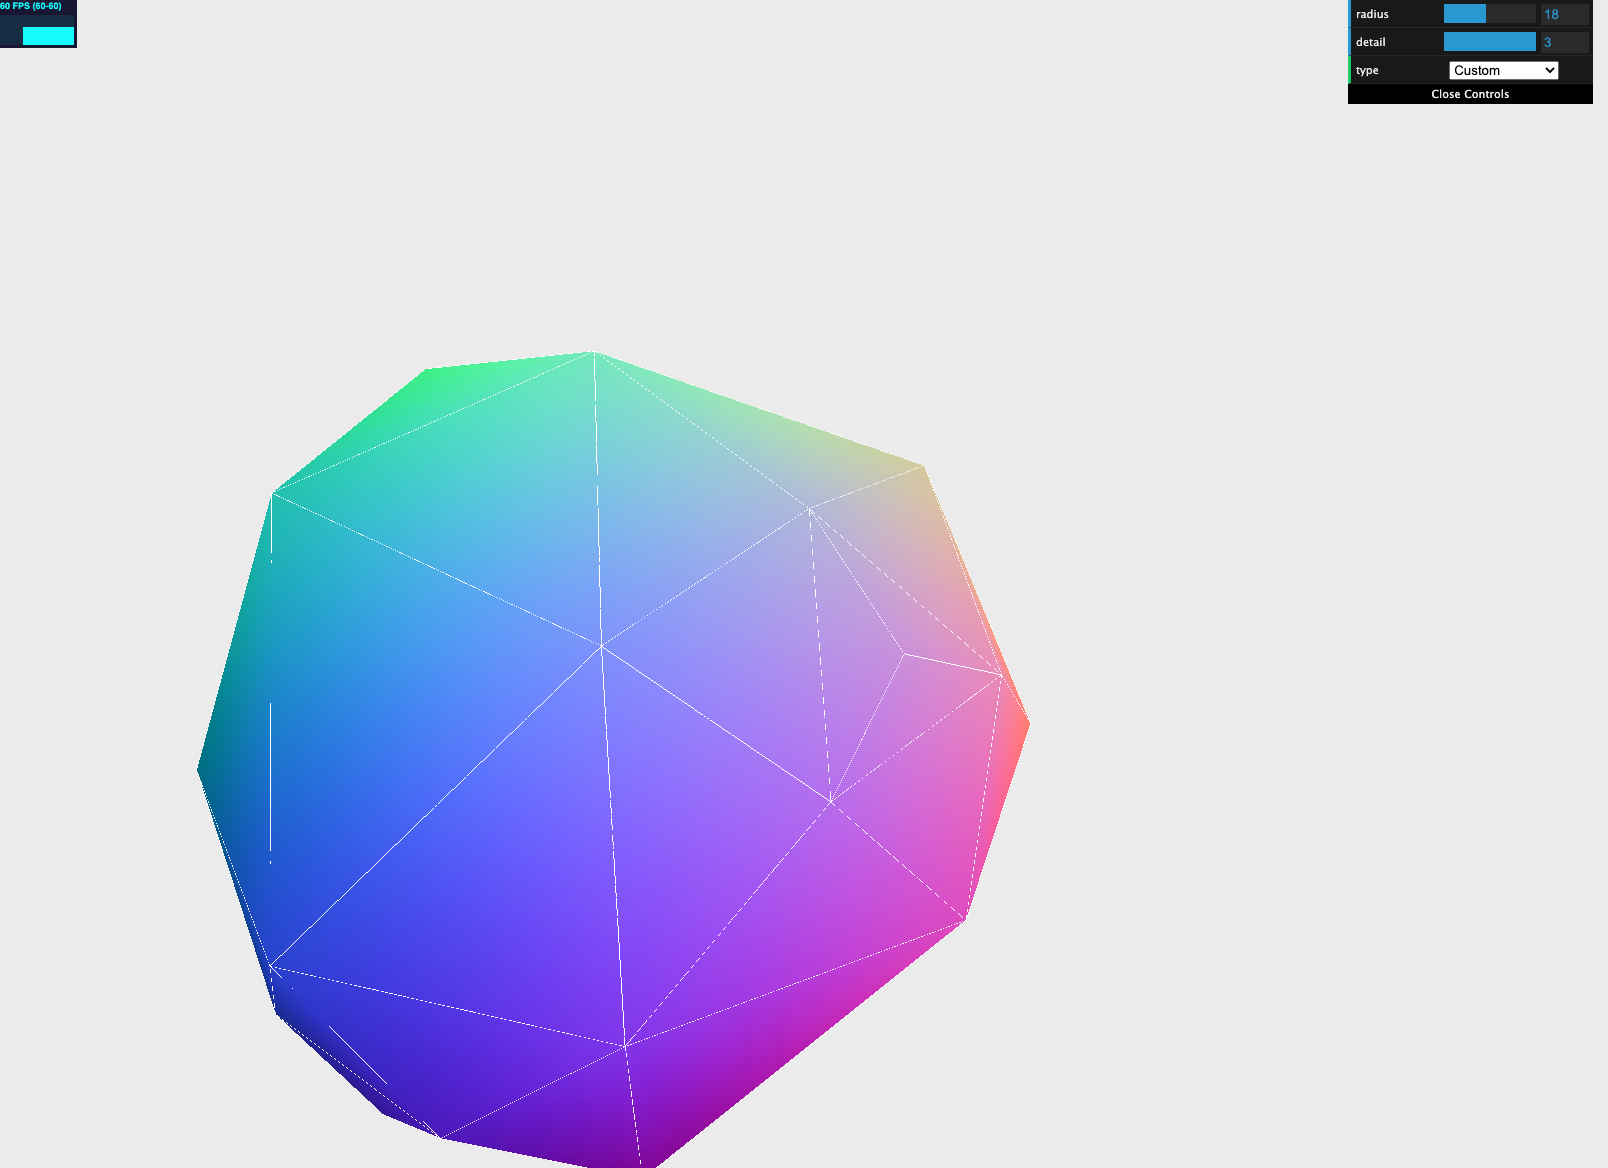
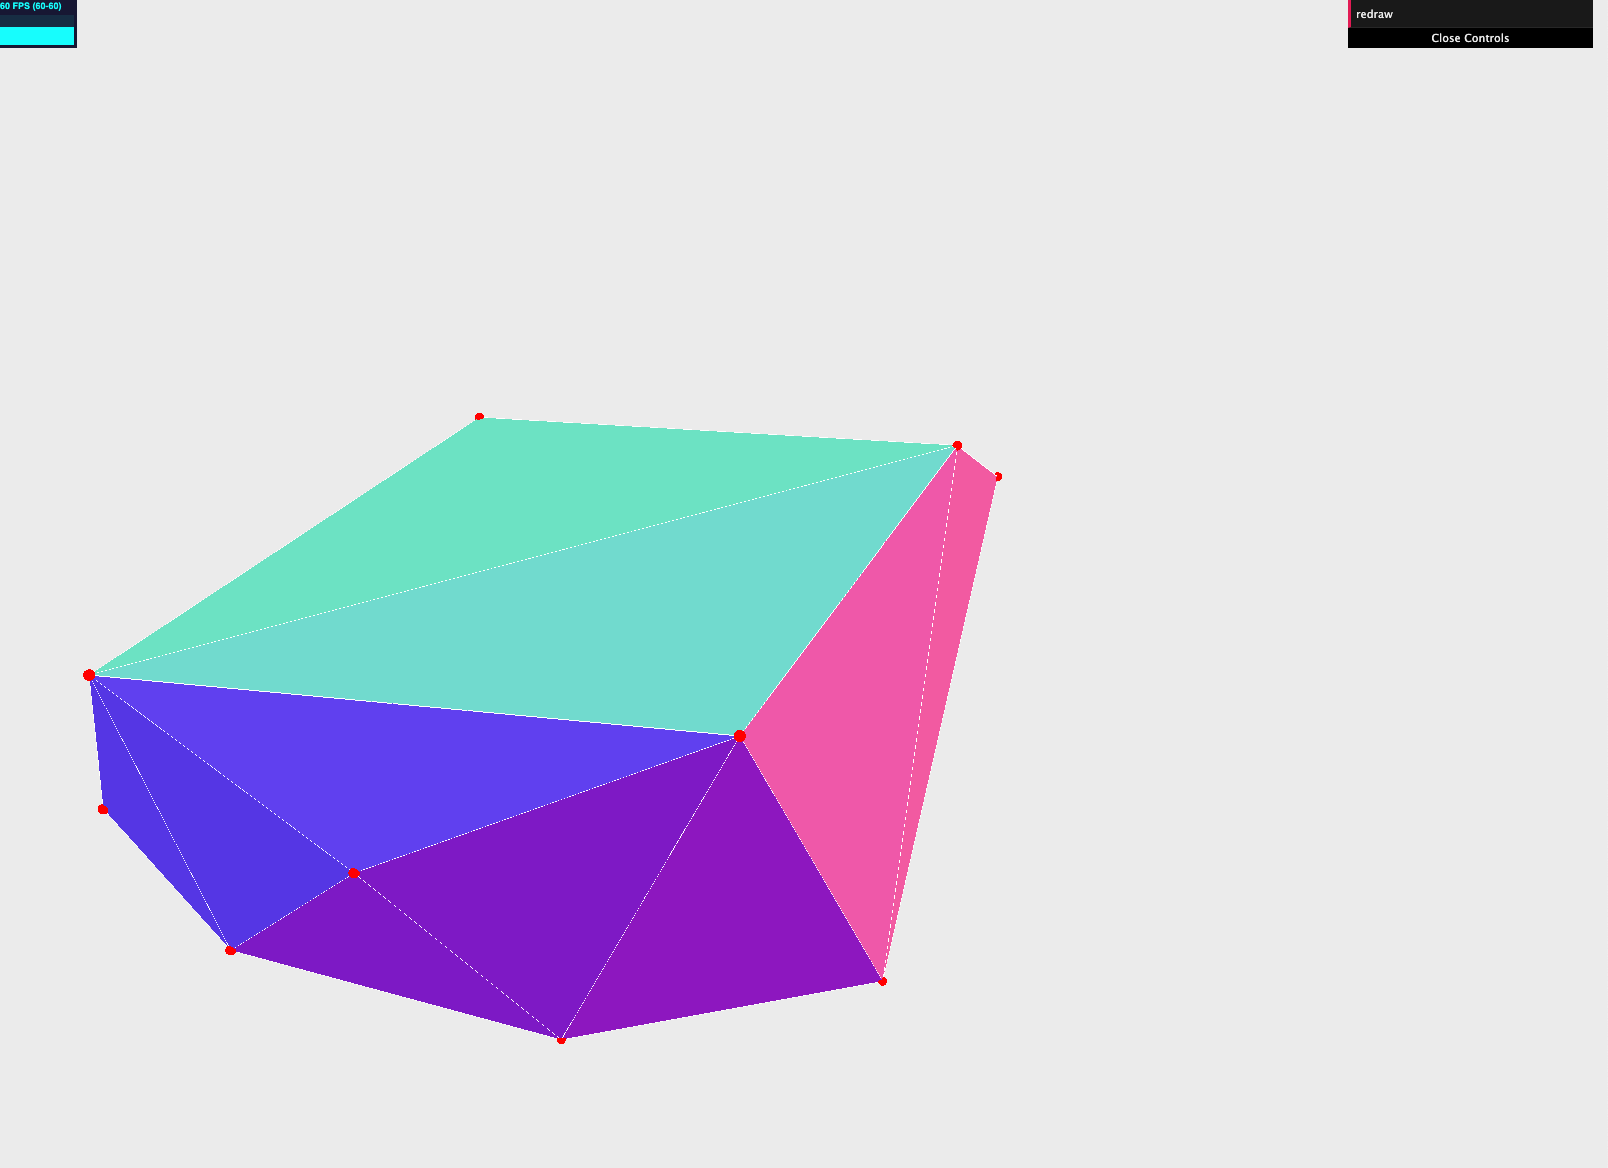
6-1 completed

Changed region(s): [[0.0311, 0.2774, 0.653, 1.0], [0.8396, 0.0, 0.995, 0.0925], [0.0, 0.0, 0.0311, 0.0616]]

diff --git a/Learning Three.js, 2nd Edition/chapter-06/6-1.advanced-3d-geometries-convex/src/index.js b/Learning Three.js, 2nd Edition/chapter-06/6-1.advanced-3d-geometries-convex/src/index.js
@@ -2,7 +2,7 @@ import * as THREE from "three";
 import Stats from "stats.js";
 import * as dat from "dat.gui";
 import { SceneUtils } from "three/examples/jsm/utils/SceneUtils";
-import { Shape, Sphere } from "three";
+import { ConvexGeometry } from "three/examples/jsm/geometries/ConvexGeometry";
 
 // 統計情報の追加
 const stats = initStats();
@@ -25,58 +25,51 @@ renderer.setSize(window.innerWidth, window.innerHeight);
 renderer.shadowMap.enabled = true;
 document.getElementById("WebGL-output").appendChild(renderer.domElement);
 
-// [Light]spot light
-const spotLight = new THREE.SpotLight(0xffffff);
-spotLight.position.set(-40, 60, -10);
-spotLight.castShadow = true;
-scene.add(spotLight);
-
-// [Mesh] polyhedron
-let polyhedron = createMesh(new THREE.IcosahedronGeometry(10, 0));
-scene.add(polyhedron);
+let spGroup;
+let hullMesh;
+generatePoints();
 
 // [Gui]Gui
 const controls = new (function () {
-  this.radius = 10;
-  this.detail = 0;
-  this.type = "Icosahedron";
-
   this.redraw = function () {
-    scene.remove(polyhedron);
-    switch (controls.type) {
-      case "Icosahedron":
-        polyhedron = createMesh(new THREE.IcosahedronGeometry(controls.radius, controls.detail));
-        break;
-      case "Tetrahedron":
-        polyhedron = createMesh(new THREE.TetrahedronGeometry(controls.radius, controls.detail));
-        break;
-      case "Octahedron":
-        polyhedron = createMesh(new THREE.OctahedronGeometry(controls.radius, controls.detail));
-        break;
-      case "Dodecahedron":
-        polyhedron = createMesh(new THREE.DodecahedronGeometry(controls.radius, controls.detail));
-        break;
-      case "Custom":
-        var vertices = [1, 1, 1, -1, -1, 1, -1, 1, -1, 1, -1, -1];
-
-        var indices = [2, 1, 0, 0, 3, 2, 1, 3, 0, 2, 3, 1];
-
-        polyhedron = createMesh(new THREE.PolyhedronGeometry(vertices, indices, controls.radius, controls.detail));
-        break;
-    }
-    scene.add(polyhedron);
+    scene.remove(spGroup);
+    scene.remove(hullMesh);
+    generatePoints();
   };
 })();
 
 const gui = new dat.GUI();
-gui.add(controls, "radius", 0, 40).step(1).onChange(controls.redraw);
-gui.add(controls, "detail", 0, 3).step(1).onChange(controls.redraw);
-gui.add(controls, "type", ["Icosahedron", "Tetrahedron", "Octahedron", "Dodecahedron", "Custom"]).onChange(controls.redraw);
+gui.add(controls, "redraw");
 
 let step = 0;
 
 // レンダリング
 renderScene();
+
+function generatePoints() {
+  const points = [];
+  for (let i = 0; i < 20; i++) {
+    const randomX = -15 + Math.round(Math.random() * 30);
+    const randomY = -15 + Math.round(Math.random() * 30);
+    const randomZ = -15 + Math.round(Math.random() * 30);
+
+    points.push(new THREE.Vector3(randomX, randomY, randomZ));
+  }
+
+  spGroup = new THREE.Group();
+  const material = new THREE.MeshBasicMaterial({ color: 0xff0000, transparent: false });
+  points.forEach(function (point) {
+    const spGeom = new THREE.SphereGeometry(0.2);
+    const spMesh = new THREE.Mesh(spGeom, material);
+    spMesh.position.copy(point);
+    spGroup.add(spMesh);
+  });
+  scene.add(spGroup);
+
+  const hullGeometry = new ConvexGeometry(points);
+  hullMesh = createMesh(hullGeometry);
+  scene.add(hullMesh);
+}
 
 /**
  * メッシュの作成
@@ -99,7 +92,8 @@ function renderScene() {
 
   // mesh animation
   step += 0.01;
-  polyhedron.rotation.y = step;
+  spGroup.rotation.y = step;
+  hullMesh.rotation.y = step;
 
   // requestAnimationFrameを利用してレンダリング（レンダリングタイミングをブラウザに任せる）
   requestAnimationFrame(renderScene);
